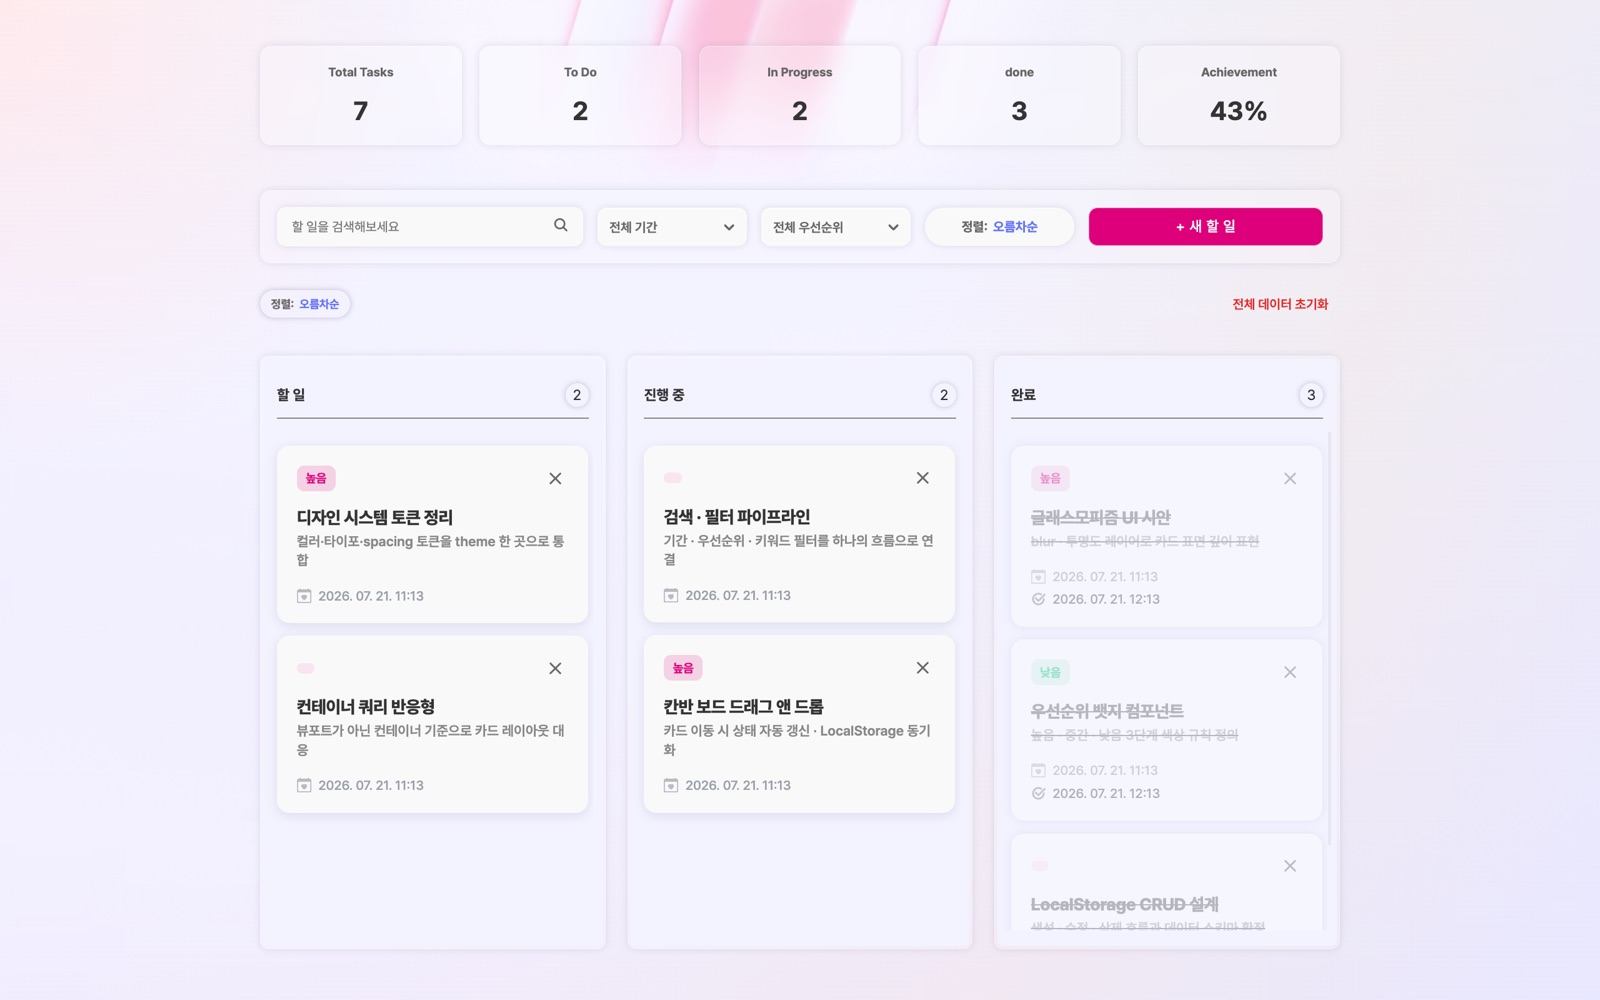
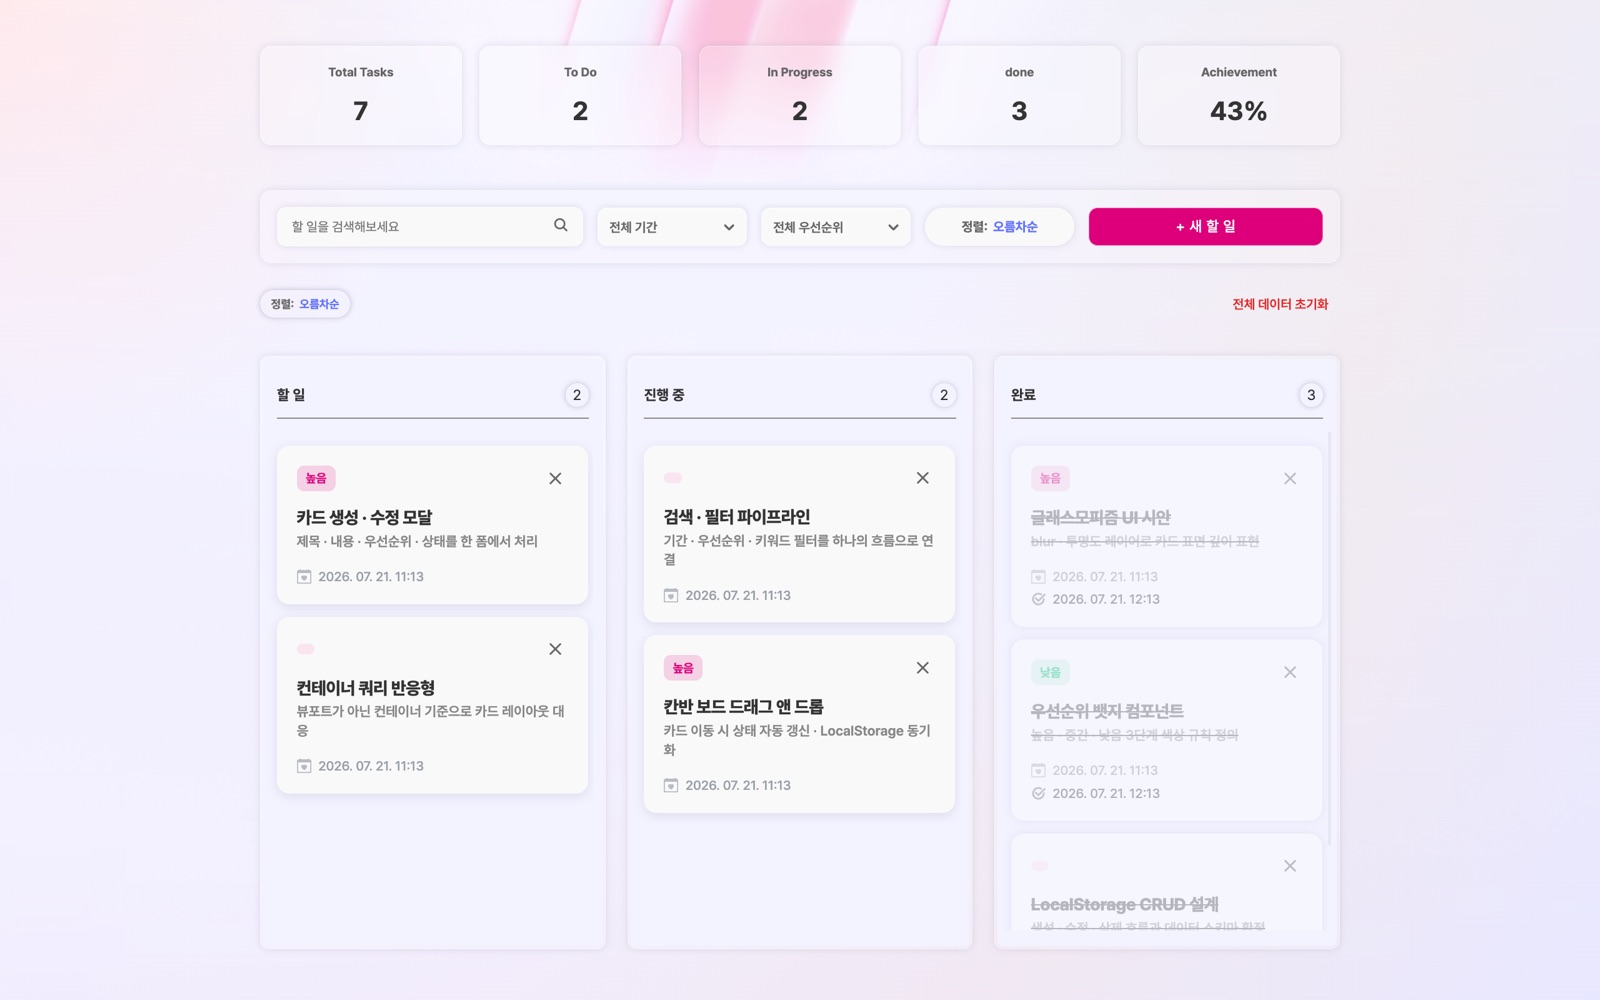
fix: 프로젝트 스크린샷 데이터 보정 및 해상도 정리
- flowdash: 예시 태스크 카드 중 '디자인 시스템 토큰 정리'는 flowdash(Vanilla JS)가
  아닌 theme.js 계열 작업이라 '카드 생성 · 수정 모달'로 교체
  (나머지 6개는 projects.js role 항목과 대응)
- PULSE: 맥북 기본 해상도(1440×900), DROPS 슬라이드로 재촬영
  (자동재생 캐러셀이라 DROPS/COLLAB로 넘어간 프레임이 섞여 여러 차례 재검증)
- public/hwaseong.jpg  # 화성야화 로컬 dev 서버 메인 비주얼 캡처 1440×900
  (사이트가 커스텀 커서를 쓰기 때문에 캡처 전 해당 요소를 숨김)
- 화성야화 img 연결로 main 3개 모두 실제 스크린샷 확보

Changed region(s): [[0.1875, 0.682, 0.3438, 0.806], [0.1875, 0.496, 0.3438, 0.62]]

diff --git a/src/data/projects.js b/src/data/projects.js
@@ -65,7 +65,7 @@ export const projects = [
     ],
     stack: ["React", "Vite", "JavaScript", "Figma"],
     links: [{ txt: "GITHUB", url: "https://github.com/dohaim918/hwaseong-yahwa-web" }],
-    img: null, // 스크린샷 경로/URL 입력 시 자동 적용
+    img: "/hwaseong.jpg",
     imgLabel: "MAIN VISUAL",
   },
   {
